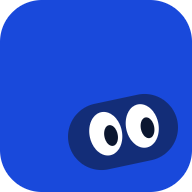
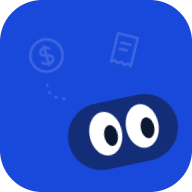
multiple desing fixes

diff --git a/src/style.css b/src/style.css
@@ -5180,3 +5180,48 @@ hr {
 .investment-history li p { margin: var(--space-2) 0; color: var(--color-text); }
 
 .import-rule-detail { display: block; margin-top: 5px; color: var(--color-muted); font-size: 12px; }
+
+/* The same quiet financial evidence trail as the app icon. */
+.evidence-trail {
+  position: relative;
+  display: block;
+  width: 156px;
+  height: 78px;
+  flex: 0 0 auto;
+  color: var(--color-primary);
+  opacity: .17;
+  pointer-events: none;
+  user-select: none;
+}
+.evidence-trail-path { position: absolute; inset: 0; width: 100%; height: 100%; }
+.evidence-trail-symbol { position: absolute; display: flex; }
+.trail-symbol-0 { left: 10%; top: 7%; transform: rotate(-16deg); }
+.trail-symbol-1 { left: 46%; top: 42%; transform: rotate(12deg); }
+.trail-symbol-2 { right: 5%; top: 4%; transform: rotate(14deg); }
+.dashboard-intro { display: flex; align-items: center; justify-content: space-between; gap: 16px; }
+.dashboard-intro > div, .page-heading > div { min-width: 0; }
+.page-heading > .evidence-trail { width: 126px; height: 70px; }
+.rail-companion { position: relative; min-height: 90px; margin: auto 4px 0; flex-shrink: 0; }
+.rail-companion .evidence-trail { color: #fff; opacity: .16; width: 160px; height: 78px; }
+.rail-companion > .eyes { position: absolute; width: 75px; right: 6px; bottom: 0; color: #0c205a; transform: rotate(-12deg); }
+.rail-companion + .rail-worth { margin-top: 14px; }
+.ds-empty-art { display: grid; place-items: center; position: relative; width: 140px; height: 72px; margin-bottom: 10px; }
+.ds-empty-art > .evidence-trail { position: absolute; inset: 0; width: 140px; height: 70px; opacity: .12; }
+.ds-empty-art > .ds-empty-icon { position: relative; margin: 0; color: var(--color-primary); background: var(--color-surface); padding: 8px; border-radius: 50%; }
+.preview-companion { position: absolute; right: 0; bottom: -8px; width: 145px; height: 85px; pointer-events: none; }
+.preview-companion .evidence-trail { width: 135px; height: 65px; opacity: .13; }
+.preview-companion .preview-eyes { right: 15px; bottom: 0; }
+.first-account-art { position: relative; }
+.first-account-art > .evidence-trail { position: absolute; width: 190px; height: 105px; color: inherit; opacity: .18; }
+.first-account-art > .eyes { position: relative; }
+.catalog-trails { display: flex; flex-wrap: wrap; gap: 20px; margin: 20px 0; }
+.catalog-row > span { display: inline-flex; align-items: center; gap: 8px; }
+@media (max-width: 700px) {
+  .dashboard-intro > .evidence-trail, .page-heading > .evidence-trail { width: 72px; height: 60px; }
+  .dashboard-intro > .evidence-trail .evidence-trail-symbol svg,
+  .page-heading > .evidence-trail .evidence-trail-symbol svg { width: 21px; height: 21px; }
+  .dashboard-intro, .page-heading { gap: 10px; }
+}
+@media (max-width: 380px) {
+  .dashboard-intro > .evidence-trail, .page-heading > .evidence-trail { display: none; }
+}

diff --git a/src/design-system/ui.tsx b/src/design-system/ui.tsx
@@ -32,9 +32,17 @@ export type IconName =
   | "heart"
   | "leisure"
   | "other"
-  | "minus";
+  | "minus"
+  | "coin"
+  | "receipt"
+  | "pocket"
+  | "investment";
 export function Icon({ name, size = 20 }: { name: IconName; size?: number }) {
   const paths: Record<IconName, ReactNode> = {
+    coin: <><circle cx="12" cy="12" r="9" /><path d="M15 8c-1-2-7-2-7 1 0 4 8 1 8 5 0 3-6 4-8 1m4-10v14" /></>,
+    receipt: <><path d="M5 3h14v18l-3-2-4 2-4-2-3 2V3Z" /><path d="M9 8h6m-6 4h6m-6 4h3" /></>,
+    pocket: <><path d="M4 5h16v9c0 4-8 7-8 7s-8-3-8-7V5Z" /><path d="m4 9 8 5 8-5" /></>,
+    investment: <><path d="M4 20h16M6 16v-3m6 3V9m6 7V5M4 9l6-5 5 2 5-4" /></>,
     eye: (
       <>
         <path d="M2 12s3.5-7 10-7 10 7 10 7-3.5 7-10 7S2 12 2 12Z" />
@@ -184,6 +192,21 @@ export function Icon({ name, size = 20 }: { name: IconName; size?: number }) {
     </svg>
   );
 }
+/** Decorative evidence trail: no labels, status, interaction or financial meaning. */
+export function EvidenceTrail({ variant = "evidence", className = "" }: {
+  variant?: "evidence" | "funds" | "holdings";
+  className?: string;
+}) {
+  const symbols: Record<typeof variant, [IconName, IconName, IconName]> = {
+    evidence: ["receipt", "search", "card"],
+    funds: ["coin", "wallet", "receipt"],
+    holdings: ["pocket", "coin", "investment"],
+  };
+  return <span className={`evidence-trail ${className}`} aria-hidden="true">
+    <svg className="evidence-trail-path" viewBox="0 0 180 90" fill="none"><path d="M27 52c12 31 47 28 58 2s36-34 63-18" stroke="currentColor" strokeWidth="2" strokeLinecap="round" strokeDasharray="1 8" /></svg>
+    {symbols[variant].map((name, index) => <span key={name} className={`evidence-trail-symbol trail-symbol-${index}`}><Icon name={name} size={30} /></span>)}
+  </span>;
+}
 export function Eyes({
   happy = false,
   className = "",
@@ -274,8 +297,9 @@ export function EmptyState({
 }) {
   return (
     <div className="ds-empty">
-      <span className="ds-empty-icon">
-        <Icon name={icon} size={28} />
+      <span className="ds-empty-art" aria-hidden="true">
+        <EvidenceTrail variant={icon === "wallet" || icon === "bank" ? "funds" : "evidence"} />
+        <span className="ds-empty-icon"><Icon name={icon} size={28} /></span>
       </span>
       <h3>{title}</h3>
       <p>{children}</p>

diff --git a/src/finance/Dashboard.tsx b/src/finance/Dashboard.tsx
@@ -7,6 +7,7 @@ import {
   Button,
   EmptyState,
   Eyes,
+  EvidenceTrail,
   Icon,
   Panel,
 } from "../design-system/ui";
@@ -192,7 +193,7 @@ export function Dashboard({
     return (
       <Panel className="first-account">
         <div className="first-account-art">
-          <Eyes />
+          <EvidenceTrail variant="funds" /><Eyes />
         </div>
         <div>
           <h2>
@@ -217,8 +218,9 @@ export function Dashboard({
     <div className="accounts-dashboard">
       <div className="dashboard-main">
         <div className="dashboard-intro">
-          <h1>Cada peso, localizado.</h1>
-          <p>Tus cuentas, tus tarjetas y lo que realmente puedes usar.</p>
+          <div><h1>Cada peso, localizado.</h1>
+          <p>Tus cuentas, tus tarjetas y lo que realmente puedes usar.</p></div>
+          <EvidenceTrail variant="funds" />
         </div>
         <div className="funds-equation">
           <section className="funds-inputs">
@@ -468,7 +470,7 @@ export function Dashboard({
               No tienes evidencias pendientes de revisión.
             </EmptyState>
           )}
-          <Eyes className="preview-eyes" happy={!pending.length} />
+          <span className="preview-companion">{pending.length > 0 && <EvidenceTrail />}<Eyes className="preview-eyes" happy={!pending.length} /></span>
         </Panel>
         <Panel
           title="Gasto por categoría"

diff --git a/vite.config.ts b/vite.config.ts
@@ -23,11 +23,11 @@ export default defineConfig({
             background_color: "#f7f9fd",
             theme_color: "#1949db",
             icons: [
-              { src: `${base}icon-192.png?v=5`, sizes: "192x192", type: "image/png", purpose: "any" },
-              { src: `${base}icon-512.png?v=5`, sizes: "512x512", type: "image/png", purpose: "any" },
-              { src: `${base}icon-maskable-512.png?v=5`, sizes: "512x512", type: "image/png", purpose: "maskable" },
+              { src: `${base}icon-192.png?v=6`, sizes: "192x192", type: "image/png", purpose: "any" },
+              { src: `${base}icon-512.png?v=6`, sizes: "512x512", type: "image/png", purpose: "any" },
+              { src: `${base}icon-maskable-512.png?v=6`, sizes: "512x512", type: "image/png", purpose: "maskable" },
               {
-                src: `${base}icon.svg?v=5`,
+                src: `${base}icon.svg?v=6`,
                 sizes: "any",
                 type: "image/svg+xml",
                 purpose: "any",

diff --git a/src/design-system/DesignSystem.tsx b/src/design-system/DesignSystem.tsx
@@ -5,6 +5,7 @@ import {
   DisclosureEditor,
   EmptyState,
   Eyes,
+  EvidenceTrail,
   Field,
   Icon,
   Panel,
@@ -42,6 +43,11 @@ export function DesignSystem() {
         <a className="text-link" href="#/resumen">
           Volver al resumen <Icon name="arrow" size={16} />
         </a>
+      </Panel>
+      <Panel title="Rastro financiero">
+        <p>Monedas, recibos, bolsillos y pistas acompañan las cabeceras y los estados vacíos. Son decorativos; los datos y las acciones mantienen el protagonismo.</p>
+        <div className="catalog-trails">{(["funds", "evidence", "holdings"] as const).map(variant => <EvidenceTrail key={variant} variant={variant} />)}</div>
+        <div className="catalog-row">{(["coin", "receipt", "pocket", "investment"] as const).map(name => <span key={name}><Icon name={name} /> {name}</span>)}</div>
       </Panel>
       <Panel title="Color">
         <div className="token-swatches">

diff --git a/index.html b/index.html
@@ -1,5 +1,5 @@
 <!doctype html>
 <html lang="es-CO"><head><meta charset="UTF-8"/><meta name="viewport" content="width=device-width, initial-scale=1.0"/>
 <meta name="theme-color" content="#1949db"/><meta name="referrer" content="no-referrer"/>
-<link rel="icon" type="image/svg+xml" href="%BASE_URL%icon.svg?v=5"/><link rel="apple-touch-icon" sizes="180x180" href="%BASE_URL%apple-touch-icon.png?v=5"/><link rel="manifest" href="%BASE_URL%manifest.webmanifest"/>
+<link rel="icon" type="image/svg+xml" href="%BASE_URL%icon.svg?v=6"/><link rel="apple-touch-icon" sizes="180x180" href="%BASE_URL%apple-touch-icon.png?v=6"/><link rel="manifest" href="%BASE_URL%manifest.webmanifest"/>
 <title>Money Stalker · Tu dinero, claro</title></head><body><div id="root"></div><script type="module" src="/src/main.tsx"></script></body></html>

diff --git a/src/finance/AccountRail.tsx b/src/finance/AccountRail.tsx
@@ -1,7 +1,7 @@
 import { accountKindLabels, type Account, type State } from "../../domain/model";
 import { groupAccounts, netWorthMinor } from "../../domain/account-groups";
 import { formatCOP } from "../../domain/money";
-import { Icon } from "../design-system/ui";
+import { Icon, Eyes, EvidenceTrail } from "../design-system/ui";
 import { AccountArtwork } from "./AccountArtwork";
 
 export function AccountRail({
@@ -117,6 +117,7 @@ export function AccountRail({
           </div>
         )}
       </div>
+      <div className="rail-companion" aria-hidden="true"><EvidenceTrail variant="holdings" /><Eyes /></div>
       <div className="rail-worth">
         <span>Patrimonio neto</span>
         <strong>

diff --git a/src/App.tsx b/src/App.tsx
@@ -37,6 +37,7 @@ import { DesignSystem } from "./design-system/DesignSystem";
 import {
   Icon,
   Eyes,
+  EvidenceTrail,
   Badge as SystemBadge,
   DisclosureEditor,
   EmptyState,
@@ -609,6 +610,7 @@ export function App() {
                         : "Cuentas bancarias, tarjetas y tu margen de tranquilidad."}
                 </p>}
               </div>
+              <EvidenceTrail variant={page === "revisar" ? "evidence" : page === "reportes" ? "funds" : "holdings"} />
             </div>
           )}
           {error && (

diff --git a/src/finance/AccountArtwork.tsx b/src/finance/AccountArtwork.tsx
@@ -38,9 +38,9 @@ export function AccountArtwork({
       name={
         account.kind === "credit"
           ? "card"
-          : account.kind === "cash" || account.kind === "pocket"
+          : account.kind === "cash"
             ? "wallet"
-            : account.kind === "investment" ? "overview" : "bank"
+            : account.kind === "pocket" ? "pocket" : account.kind === "investment" ? "investment" : "bank"
       }
       size={size}
     />

diff --git a/src/design-system/README.md b/src/design-system/README.md
@@ -5,7 +5,7 @@ The approved direction is **Accounts first**. The selected visual reference is `
 ## Source and ownership
 
 - `tokens.css`: live color, type, spacing, shape, focus, overlay, and motion primitives. The variable font is self-hosted in `fonts/`; the license is in `public/fonts/OFL-Inter.txt`.
-- `ui.tsx`: typed `Icon`, `Eyes`, `Badge`, `Button`, `Panel`, `EmptyState`, `SectionHeading`, `DisclosureEditor`, and `Field` components.
+- `ui.tsx`: typed `Icon`, `Eyes`, `EvidenceTrail`, `Badge`, `Button`, `Panel`, `EmptyState`, `SectionHeading`, `DisclosureEditor`, and `Field` components.
 - `../style.css`: shared components, application frame, finance patterns, and responsive layouts. New patterns belong in named sections rather than competing override layers.
 - Root `DESIGN.md`: portable design tokens and usage guidance. `.impeccable/design.json` carries responsive/motion extensions. Keep them synchronized with the implementation when changing the system.
 - `DesignSystem.tsx`: live examples of the shipped controls and their states. Examples are illustrative and do not write financial data.
@@ -71,3 +71,18 @@ Use visible focus, native keyboard behavior, labeled controls, `aria-current` fo
 ## Extend the system
 
 Reuse existing tokens/components before adding a new one. Promote a repeated, same-purpose pattern; keep one-off screen behavior local. Update the catalog and root design reference with a new reusable variant. Check the actual page at desktop, tablet, and narrow-phone sizes and run the relevant browser flow. Add behavior tests when financial state, grouping, filtering, or recovery changes.
+
+## Financial trail and companion
+
+`EvidenceTrail` is a decorative, noninteractive family of financial symbols with `funds`, `evidence` and `holdings` variants. Use it in reserved heading space, empty-state artwork and the rail companion. Keep it out of data rows, amounts, input fields and status messages. `coin`, `receipt`, `pocket` and `investment` are available in `Icon`; functional controls still need visible labels.
+
+
+| Variant | Symbols | Intended context |
+| --- | --- | --- |
+| `funds` | Coin, wallet, receipt | Summary and money overview |
+| `evidence` | Receipt, search, card | Review and empty evidence states |
+| `holdings` | Pocket, coin, investment | Accounts and saved products |
+
+Use primary-blue outlines at 12–18% opacity on light surfaces and white at 16% on the blue rail. Decorative elements have `aria-hidden`, ignore pointer events and remain static. Reserve their own space; hide heading motifs below 380px rather than squeezing text. The `Eyes` companion keeps its dark capsule and −12° inclination.
+
+The favicon and installed-app icons use primary blue `#1949db`, the complete eye mark in the lower-right corner, and faint coin/receipt outlines. Maskable variants inset the mark for platform cropping. Edit `public/icon.svg` and regenerate PNGs with `scripts/generate-icons.mjs`; keep favicon, Apple touch and PWA assets consistent. See the live variants at `#/design-system` and the portable rules in root `DESIGN.md`.

diff --git a/DESIGN.md b/DESIGN.md
@@ -321,3 +321,7 @@ Manual investment contributions offer existing investment products or inline pro
 Investment entry is hierarchical: choose Inversión in the expense-category selector, then select an existing investment product or create one inline. It is stored as a transfer, without requiring a separate investment movement type.
 
 App and favicon assets reuse the complete Conecta las pistas eye mark with its dark capsule, rotated −12 degrees in the lower-right corner on primary blue (#1949db). Maskable variants inset the eyes slightly to preserve them within platform cropping. Keep the same identity across SVG favicon, Apple touch icon and regular/maskable PWA icons.
+
+Icon backgrounds add a restrained white-outline coin, receipt and short dotted evidence trail at 16% opacity. Keep this supporting texture behind the corner eye mark, never competing with it.
+
+The frontend shares the icon’s evidence-trail language through `EvidenceTrail`: coins, wallet and receipts for funds; receipts, search and cards for evidence; pockets, coins and growth for holdings. Use low-opacity primary outlines in reserved heading/empty-state space and white outlines alongside the rail mascot. Do not overlay values, tables, controls or error messages. Decoration is static, noninteractive and hidden from assistive technology; at the narrowest widths omit heading motifs to preserve text. The catalog documents every variant. Pocket and investment products have their own semantic icons.

diff --git a/PRODUCT.md b/PRODUCT.md
@@ -60,3 +60,5 @@ Investment values are declared manually, with a dated history of before/declared
 Manual investment contributions offer existing investment products or inline product creation in the movement modal. The new product name defaults to the merchant until the owner changes it, starts at zero, and is saved atomically with the transfer. An explicit remember option saves the merchant, compatible category and investment destination for future CSV/XLSX imports, including the original merchant name when renamed. Import preview displays this classification before duplicate comparison and confirmation; its classification is retained through commit. Only transactions existing before upload are duplicate candidates, and repeated equal rows within one file remain independent.
 
 Investment entry is hierarchical: choose Inversión in the expense-category selector, then select an existing investment product or create one inline. It is stored as a transfer, without requiring a separate investment movement type.
+
+The approved visual identity extends the tilted eye companion with faint coins, receipts, pockets and financial evidence trails across the frontend. These are decorative brand details; they do not imply extra transactions, analysis or evidence.
